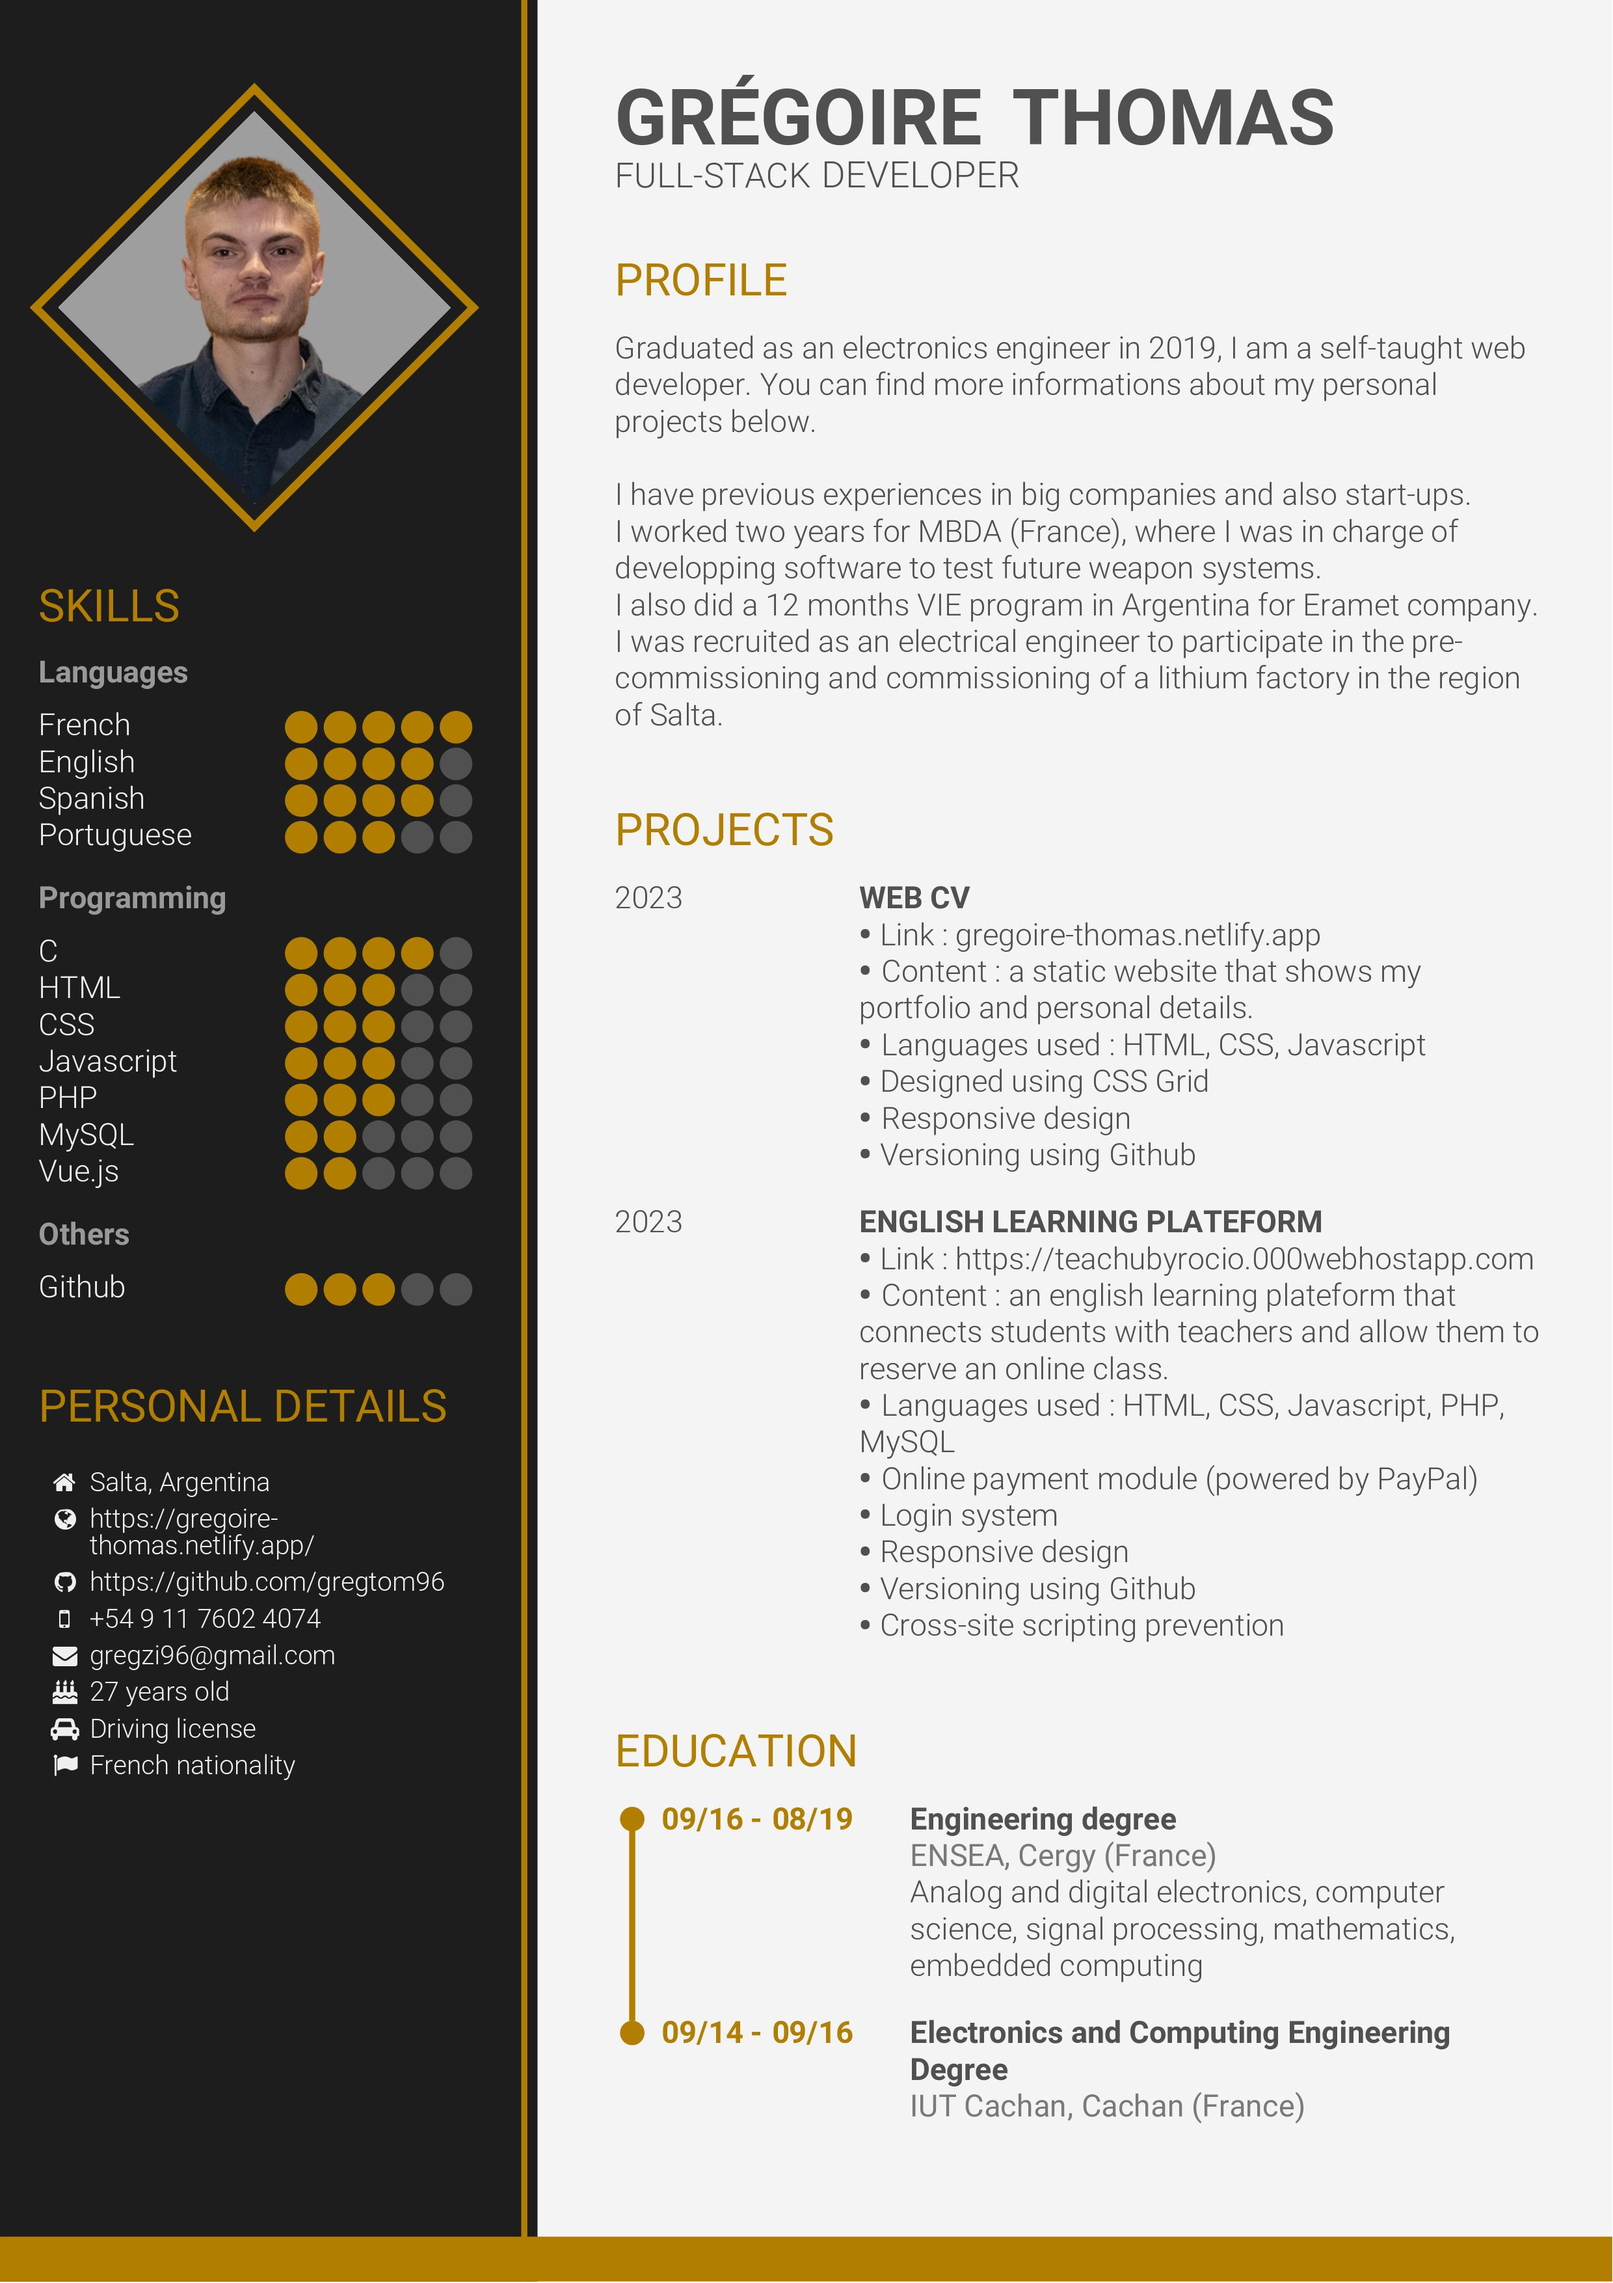
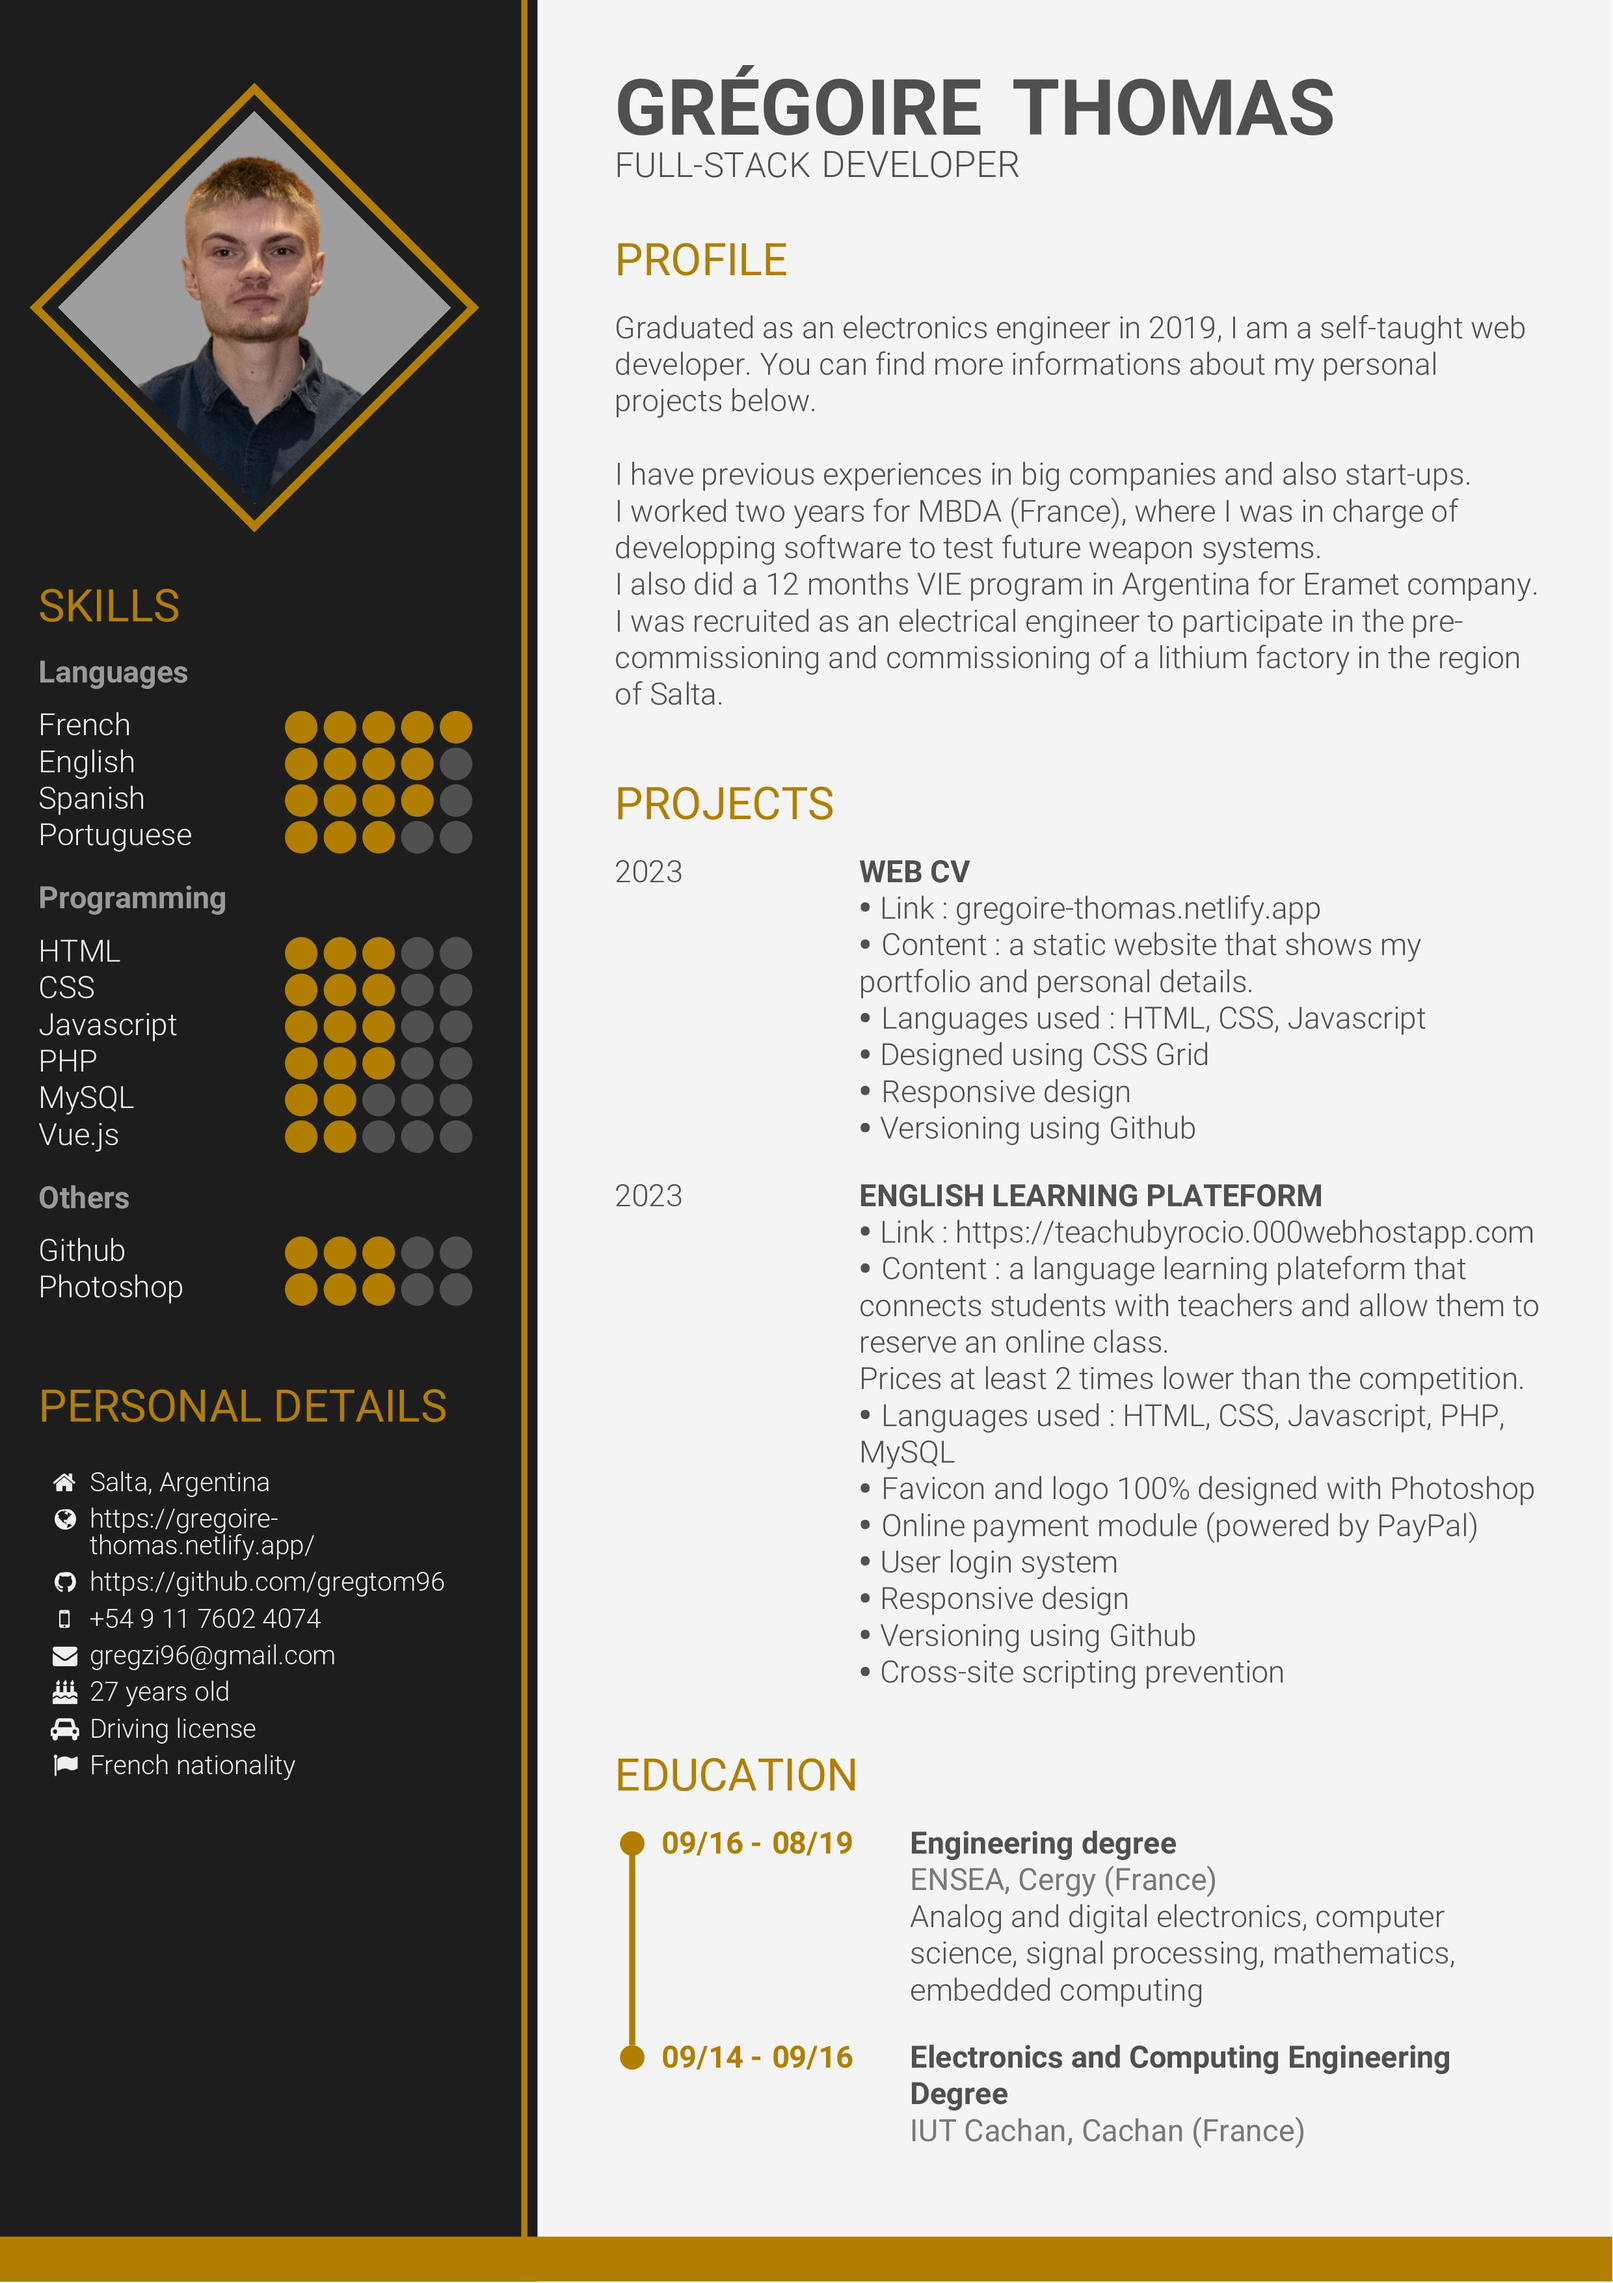
update CV + nom plateforme

diff --git a/index.html b/index.html
@@ -34,8 +34,8 @@
 			<div class="element portfolio">
 				<h1> Portfolio </h1>
 				<p>
-					<a href="https://teachubyrocio.000webhostapp.com/" target="_blank">Teach U</a>
-					is an english learning platform.
+					<a href="https://teachubyrocio.000webhostapp.com/" target="_blank">Mundolingo</a>
+					is a language learning platform.
 					It allows a student to reserve an online class with a teacher.<br>
 					This project contains a user login system and an online payment module.
 				</p>
